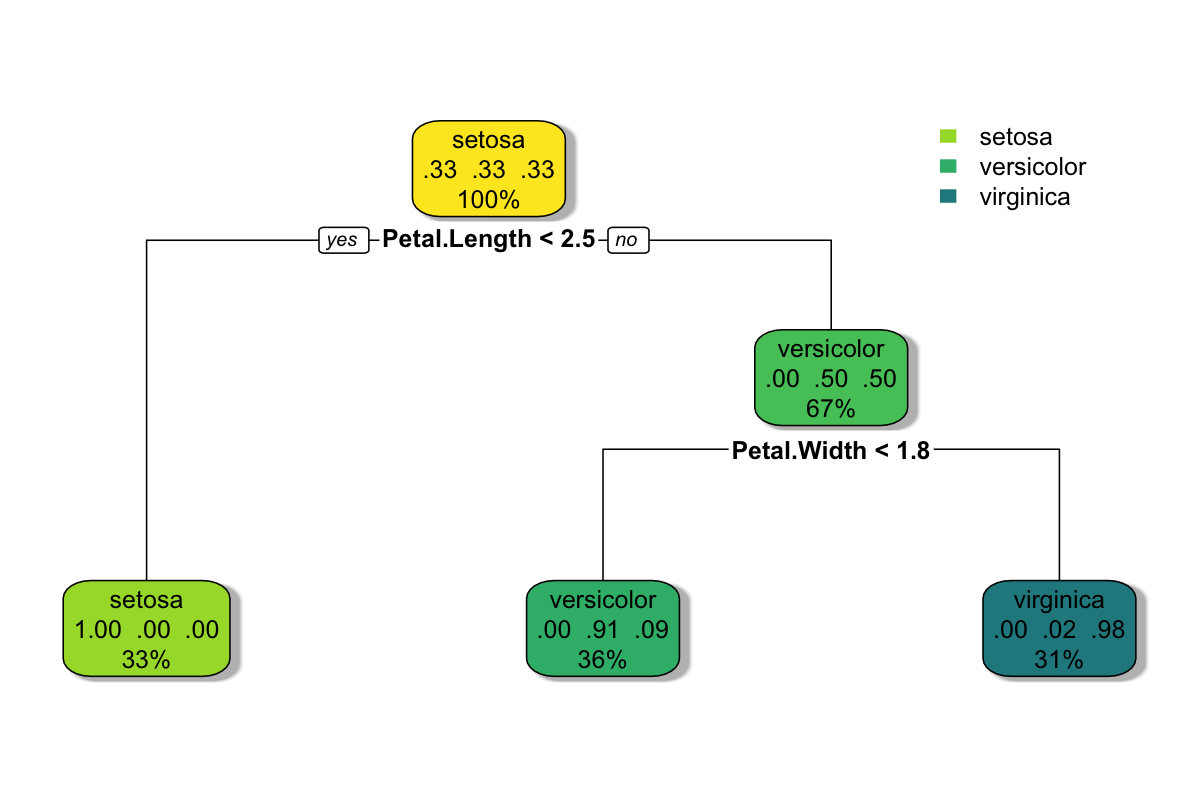
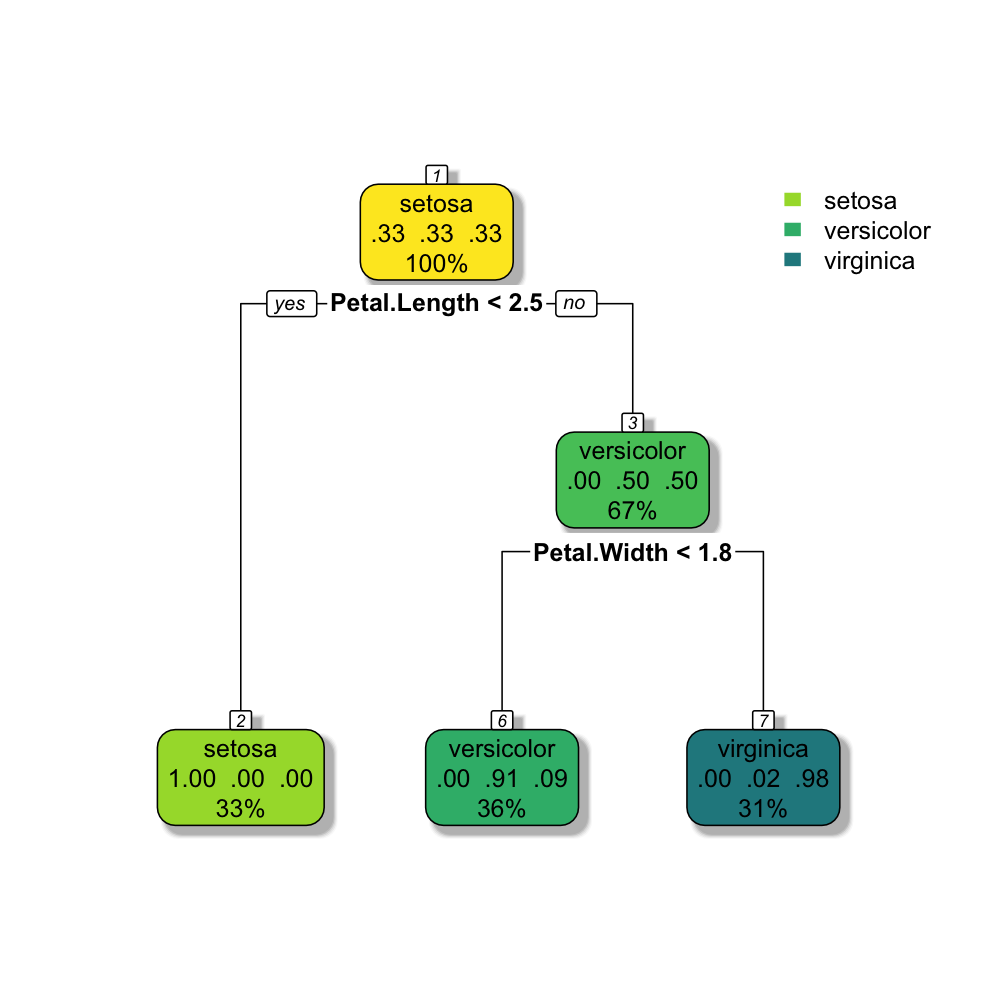
init

diff --git a/customstyle.CSS b/customstyle.CSS
@@ -1,0 +1,75 @@
+/*-- scss:defaults --*/
+
+/*-- scss:rules --*/
+
+.author {
+  text-align: right;
+}
+
+.reveal .footer {
+  font-size: 0.25em !important;
+  text-align: left !important;
+  display: block;
+  position: fixed;
+  left: 50px;
+  right: 90px;
+}
+
+.reveal .slides section .fragment.semi-fade-out {
+	opacity: 1;
+	visibility: inherit;
+
+	&.visible {
+		opacity: 0.25;
+		visibility: inherit;
+	}
+}
+
+.reveal .result {
+  max-height: 100%;
+}
+
+// Slide numbers to the bottom-right
+.slide-number, .reveal.has-logo .slide-number {
+  bottom: 14px !important;
+  right: 50px !important;
+  top: unset !important;
+  color: #777777 !important;
+}
+
+.reveal .slide-logo {
+  height: 100px !important;
+  width: 100px!important;
+  max-width: unset !important;
+  max-height: unset !important;
+  top: 14px !important;
+  right: 50px !important;
+}
+
+.custom-smaller {
+    font-size: 0.9em;
+}
+
+.custom-smaller2 {
+    font-size: 0.75em;
+}
+
+.small-table table {
+
+  font-size: 0.65em;
+
+  width: auto;
+
+  margin-left: auto;
+
+  margin-right: auto;
+
+}
+
+.small-table th,
+
+.small-table td {
+
+  padding: 0.25em 0.5em;
+
+}